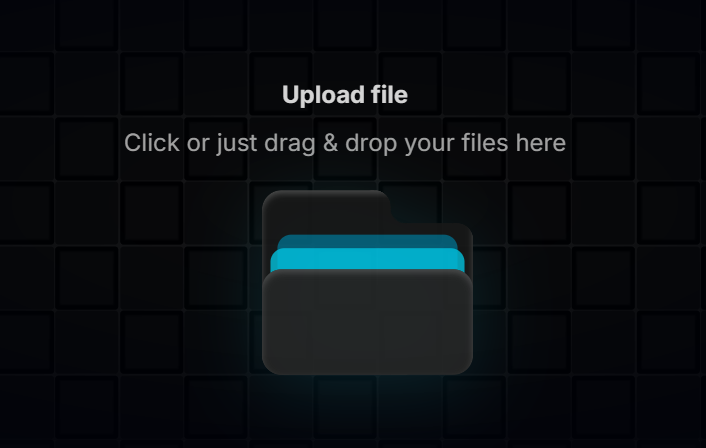
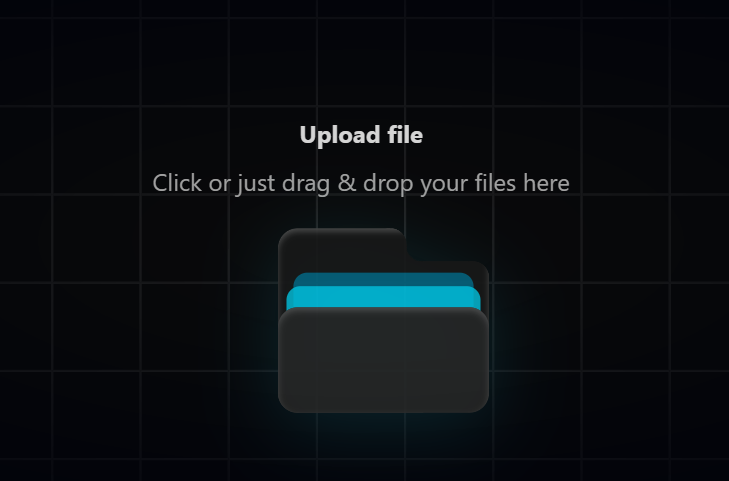
`Remove Alert component from registry and update for now, minor update for components`

Changed region(s): [[0.1558, 0.1875, 0.8102, 0.875]]

diff --git a/apps/docs/components/ui/file-upload.tsx b/apps/docs/components/ui/file-upload.tsx
@@ -58,7 +58,7 @@ const secondaryVariant = {
     exit: {
         opacity: 0,
         scale: 0.9,
-        y: -10
+        y: -10,
     },
 };
 
@@ -156,7 +156,7 @@ export const FileUpload = ({
                                         }
                                         exit="exit"
                                         variants={secondaryVariant}
-                                        transition={ {
+                                        transition={{
                                             duration: 0.3,
                                             ease: 'easeInOut',
                                         }}
@@ -291,17 +291,17 @@ export function GridPattern() {
     const columns = 41;
     const rows = 11;
     return (
-        <div className="flex shrink-0 scale-105 flex-wrap items-center justify-center gap-px bg-gray-100 dark:bg-neutral-900">
+        <div className="flex shrink-0 scale-105 flex-wrap items-center justify-center bg-gray-100 dark:bg-neutral-900">
             {Array.from({ length: rows }).map((_, row) =>
                 Array.from({ length: columns }).map((_, col) => {
                     const index = row * columns + col;
                     return (
                         <div
                             key={`${col}-${row}`}
-                            className={`flex h-10 w-10 shrink-0 rounded-[2px] ${
+                            className={`flex h-14 w-14 shrink-0 border-[0.5px] border-neutral-800 ${
                                 index % 2 === 0
                                     ? 'bg-gray-50 dark:bg-neutral-950'
-                                    : 'bg-gray-50 shadow-[0px_0px_1px_3px_rgba(255,255,255,1)_inset] dark:bg-neutral-950 dark:shadow-[0px_0px_1px_3px_rgba(0,0,0,1)_inset]'
+                                    : 'bg-gray-50 dark:bg-neutral-900'
                             }`}
                         />
                     );

diff --git a/apps/docs/demo/reveal-pane-demo.tsx b/apps/docs/demo/reveal-pane-demo.tsx
@@ -12,9 +12,9 @@ export function RevealPaneDemo() {
             </div>
 
             <RevealPane
-                leftImgSrc="/media/logo-dark.png"
-                rightImgSrc="/media/logo-dark.png"
-                rightImgClassName="invert"
+                leftImgSrc="/media/character.png"
+                rightImgSrc="/media/character-blur.png"
+                rightImgClassName=""
                 className="h-72 w-72 md:h-96 md:w-[30rem]"
             />
         </div>
